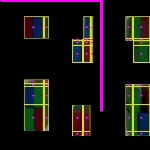
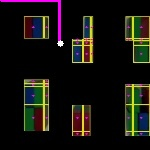
server update

Changed region(s): [[0.3733, 0.0, 0.6933, 0.7467]]

diff --git a/MakeMap.py b/MakeMap.py
@@ -19,13 +19,13 @@ class Realize:
 
         self.img_result = self.img.copy()
 
+
     def contour(self):
 
         # 1st: 데모판 영역따기 - findcontour 처리해서 가장 큰 사각형 잡기  -> 기울어짐 제거 작업
         imgray = cv2.GaussianBlur(self.img, (5, 5), 0)
         imgray = cv2.cvtColor(imgray, cv2.COLOR_BGR2GRAY)
         self.canny = cv2.Canny(imgray, 100, 200)
-        cv2.imshow('canny_resu2lt', self.canny)
         # 등고선 전처리 ('contours'는 리스트로써 각각의 등고선들(등고선도 리스트로 각각의 점을 담음)을 담고있다)
         contours, hierarchy = cv2.findContours(self.canny, cv2.RETR_TREE,
                                                cv2.CHAIN_APPROX_SIMPLE)
@@ -52,10 +52,7 @@ class Realize:
         imgray = cv2.cvtColor(imgray, cv2.COLOR_BGR2GRAY)
         self.canny = cv2.Canny(imgray, 100, 200)
 
-        # cv2.imshow('original', self.img)
-        # cv2.imshow('canny_result', self.canny)
-        # cv2.imshow('cutting', self.cut_img)
-        # cv2.waitKey(0)
+
 
     ################## 휘어진 사진 보정하기 1 ##########################
     def order_point(self, contour):  # 등고선 라인이 주어지면 -> 꼭짓점을 찾는다
@@ -91,21 +88,36 @@ class Realize:
         dst = np.float32([[0, 0], [maxWidth-1, 0], [maxWidth-1, maxHeight-1], [0, maxHeight-1]])
         M = cv2.getPerspectiveTransform(rect, dst)
         self.img_result = cv2.warpPerspective(self.img, M, (maxWidth, maxHeight))
-        #
-        # cv2.imshow("img_result", self.img_result)
-        # cv2.waitKey(0)
-        #
+
+
 
     ########## 밀반입자의 위치를 반환################
     def find_target_location(self):
         self.img_result2 = cv2.resize(self.img_result, (150, 150))
-        gray = cv2.cvtColor(self.img_result2, cv2.COLOR_BGR2GRAY)
-        for i in range(gray.shape[0]):
-            for j in range(gray.shape[1]):
-                if gray[i, j] == 1:
-                    x = j
-                    y = i
-        print("target", x, y)
+        imgray = cv2.GaussianBlur(self.img_result2, (5, 5), 0)
+        imgray = cv2.cvtColor(imgray, cv2.COLOR_BGR2GRAY)
+        canny = cv2.Canny(imgray, 100, 200)
+
+        target_cndt = []
+        contours, hierarchy = cv2.findContours(canny, cv2.RETR_EXTERNAL, cv2.CHAIN_APPROX_SIMPLE)
+        for cnt in contours:
+            epsilon = 0.02 * cv2.arcLength(cnt, True)
+            approx = cv2.approxPolyDP(cnt, epsilon, True)
+            print(len(approx))
+            if len(approx) > 10:
+                area = cv2.contourArea(cnt)
+                x, y, w, h = cv2.boundingRect(cnt)
+                cx, cy = x + w//2, y + h//2
+                target_cndt.append((area, cx, cy))
+                cv2.drawContours(self.img_result2, [approx], 0, (0, 1, 9), 2)
+
+        target_cndt = sorted(target_cndt, key=lambda x: x[0], reverse=True)
+        print(target_cndt)
+        x, y = target_cndt[0][1], target_cndt[0][2]
+        cv2.line(self.img_result2, (x, y), (x, y), (0, 225, 225), 2)
+        cv2.imshow("img_result", self.img_result2)
+        cv2.waitKey(0)
+        print("target:", y, x)
         return x, y
 
 
@@ -138,10 +150,7 @@ class Realize:
             print(x_list)
 
 
-        # cv2.imshow('test', self.canny)
-        # cv2.imshow('original222', imgray)
-        # cv2.imshow('original3', self.img_result)
-        # cv2.waitKey(0)
+
 
 
 
@@ -185,7 +194,6 @@ class Realize:
         return dot_list
 
     def pixel_content(self):
-
         #################중간 결과 좌표###################################################
         for i in range(self.img_result.shape[0]):  # 행 y
             result = ''
@@ -193,7 +201,6 @@ class Realize:
                 if self.canny[i, j] == 255:
                     self.canny[i, j] = 7
                 result += str(self.canny[i, j])
-            #print(result)
 
         dic_int7 = []    # x 좌표 얻기
         for j in range(self.img_result.shape[1]):  # 열 x
@@ -220,8 +227,6 @@ class Realize:
         y_dot = self.get_dot(row_dic_int7)
         y_dot.append(self.img_result.shape[0])
         print("y_dox:", y_dot)
-
-
         for x in x_dot:
             cv2.line(self.img_result, (x, 0), (x, self.img_result.shape[0]), (0, 225, 225), 2)
         for y in y_dot:
@@ -242,16 +247,11 @@ class Realize:
                         #print("보드판:", imm[cY, cX])
 
 
-        cv2.imshow("result_2", self.img_result)
-        cv2.waitKey(0)
-
-
-
 
 ############## 마지막 맵 ################
     def draw_result_map(self):
-        self.contour()
-        self.delete_destroy()
+        # self.contour()
+        # self.delete_destroy()
         self.make_contour()
         self.pixel_content()
         # 한 픽셀에 해당하는 실제거리 구하기
@@ -259,9 +259,6 @@ class Realize:
         picture_width = self.img_result.shape[0]  # 맵의 한면
         one_pixel = real_width/picture_width  # 하나의 픽셀이 담당하는 실제거리
         print('한픽셀에 해당하는 실제 거리(cm):', one_pixel)
-
-
-
         self.img_result = cv2.resize(self.img_result, (150, 150))
 
         ############## 맵 그리기 -보드판(도로) = 0 / 컨테이너 != 0 ################
@@ -282,11 +279,10 @@ class Realize:
 
         path = './container'  # 자른 이미지들 저장 경로 및 저장
         cv2.imwrite(path + '/map.jpg', self.img_result)
-        cv2.imshow("result_2", self.img_result)
-        cv2.waitKey(0)
+        # cv2.imshow("result_2", self.img_result)
+        # cv2.waitKey(0)
         return line_info, line_info_str
 
 if __name__ =='__main__':
     realize = Realize()
     realize.draw_result_map()
-    realize.find_target_location()

diff --git a/Find_path.py b/Find_path.py
@@ -6,7 +6,11 @@ class Find_path:
     def __init__(self):
         # 객체 생성
         self.makeMap = Realize()
+        self.makeMap.contour()
+        self.makeMap.delete_destroy()
         self.target_x, self.target_y = self.makeMap.find_target_location()  # 밀입자의 좌표
+        print("타겟의 위치:", self.target_y, self.target_x)
+
         self.map, self.map_str = self.makeMap.draw_result_map()  # 맵 만들기
 
         # check 맵 초기화
@@ -58,12 +62,9 @@ class Find_path:
         img = cv2.imread("./container/map.jpg")
         for p in range(len(self.path)):
             x, y = self.path[p][0], self.path[p][1]
-            #self.map_str[y] = self.map_str[y][:x-1] + self.arrows[p] + self.map_str[y][x+1:]
             cv2.line(img, (x, y), (x, y), (255, 0, 255), 2)
-        #cv2.line(img, (self.target_x, self.target_y), (self.target_x, self.target_y), (255, 255, 255), 5)
+        cv2.line(img, (self.target_x, self.target_y), (self.target_x, self.target_y), (255, 255, 255), 5)
 
-        cv2.imshow('test', img)
-        cv2.waitKey(0)
 
         # mongoDB로 옮기기 1......자른 이미지들 저장 경로 및 저장
         cv2.imwrite('./container/map_result.jpg', img)
@@ -86,12 +87,16 @@ class Find_path:
             else:
                 pos += r[0]
                 pos += str(r[1])
-
+        print(pos)
         import paho.mqtt.client as mqtt
         # MQTT client 생성, 이름 ""
         mqtt = mqtt.Client("loadFinder")
         mqtt.connect("localhost", 1883)  # 로컬호스트에 있는 MQTT서버에 접속
         mqtt.publish("mqtt/pathList", pos)  # topic 과 넘겨줄 값
+
+        cv2.imshow('test', img)
+        cv2.waitKey(0)
+
 
 if __name__ =='__main__':
     realize = Find_path()
